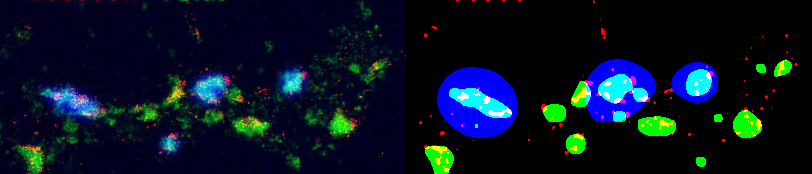
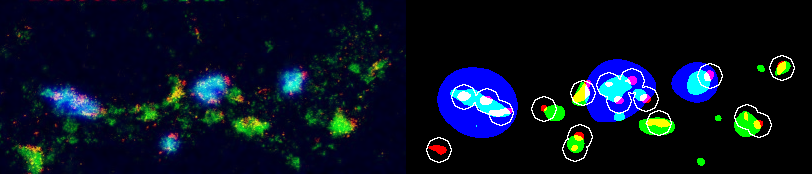
Update description based on new results

diff --git a/README.md b/README.md
@@ -9,6 +9,11 @@ FIJI Macro for counting Munc spots on Bassoon blobs.
 
 ![Interface](doc/Munc_on_Bassoon_Interface.JPG)
 
+1. The minimal diameters are used to average out noise, the maximal diameter is used to subtract the background. All of these diameters are measured in pixels.
+2. All Munc spots that are closer than a specified maximal distance (in pixels) are part of the same cluster. The distance can be measured between the borders of the segmented Munc spots, their centroids or their skeletons. 
+3. It is recommended check the literature and convert these values to pixels depending on the scaling of the images. For instance, [Sakamoto et al., 2018](https://www.nature.com/articles/s41593-017-0042-8) reported 44.9 ± 12.0 nm for Munc spot diameter (1.) and 84.7 ± 22.7 nm for their distance within clusters (2.).
+4. It is recommended to first use the Auto threshold feature and check the used thresholds (see note on results below). Then calculate the average threshold for each channel over all images and explore different thresholds close to that average value until the segmentations looks fine.
+
 ## Note on data
 
 This script will process any image found in the specified input folder.
@@ -17,7 +22,7 @@ This script will process any image found in the specified input folder.
 
 For each input file  this script produces three output files, which will be written to the specified output folder. For example, the results for an image named `example_data.tif` will be found in:
 
-1. `example_data.tif.bassoon.csv` contains comma delimitted values for `Basson_id`, `Basson_area`, `Marker_overlap`, `Munc_count` and `Munc_density`. The `Bassoon_id=0` referes to the background.
+1. `example_data.tif.bassoon.csv` contains comma delimited values for `Bassoon_id`, `Bassoon_area`, `Marker_overlap`, `Munc_count` and `Munc_density`. The `Bassoon_id=0` refers to the background.
 
 | Bassoon_id | Bassoon_area | Marker_overlap | Munc_count | Munc_density |
 |------------|--------------|----------------|------------|--------------|
@@ -29,25 +34,35 @@ For each input file  this script produces three output files, which will be writ
 | ..         | ..           | ..             | ..         | ..           |
 | 14         | 88           | 0              | 0          | 0.000        |
 
+2. `example_data.tif.munc.csv` contains comma delimited values for `Munc_id`, `Munc_area`, `Munc_x`, `Munc_y`, `Munc_mean`, `Bassoon_id`, and `Cluster_id`.
 
-2. `example_data.tif.munc.csv` contains comma delimitted values for `Munc_id`, `Munc_area`, `Munc_mean`, and `Bassoon_id`.
+|Munc_id|Munc_area|Munc_x |Munc_y |Munc_mean|Bassoon_id|Cluster_id|
+|-------|---------|-------|-------|---------|----------|----------|
+|1      |95       |375.247|67.405 |85.326   |1         |1         |
+|2      |87       |303.017|75.753 |90.897   |3         |2         |
+|3      |76       |225.934|80.434 |108.434  |4         |3         |
+|4      |237      |176.614|92.673 |122.186  |5         |0         |
+|5      |31       |202.952|84.242 |93.613   |4         |3         |
+|..     |..       |..     |..     |..       |..        |..        |
+|17     |33       |168.591|148.015|87.242   |14        |9         |
 
-| Munc_id | Munc_area | Munc_mean | Bassoon_id |
-|---------|-----------|-----------|------------|
-| 1       | 13        | 77.385    | 0          |
-| 2       | 24        | 97.917    | 0          |
-| 3       | 10        | 83.000    | 0          |
-| 4       | 5         | 84.400    | 0          |
-| 5       | 5         | 83.600    | 0          |
-| ..      | ..        | ..        | ..         |
-| 71      | 24        | 95.000    | 0          |
+3. `example_data.tif.cluster.csv` contains comma delimited values for `Cluster_id`, `Marker_overlap`, `Munc_count`. The `Cluster_id=0` refers to the background.
 
+|Cluster_id|Marker_overlap|Munc_count|
+|----------|--------------|----------|
+|0         |0             |2         |
+|1         |0             |1         |
+|2         |1             |1         |
+|3         |1             |4         |
+|4         |1             |0         |
+|..        |..            |..        |
+|10        |0             |1         |
 
-3. `example_data.tif.segmented.png` contains all segmented Munc spots, Bassoon blobs and segmented pre-synapses based on the marker channel.
+4. `example_data.tif.segmented.png` contains all segmented Munc spots, Bassoon blobs and segmented pre-synapses based on the marker channel. Additional white outlines indicate the Munc clusters.  
 
-4. `example_data.tif.compare.png` shows the input image side by side with the segmented images.
+5. `example_data.tif.compare.png` shows the input image side by side with the segmented images.
 
-4. `example_data.tif.parameters.yaml` contains all parameters used for the segmentation of the image which were provided by the user dialog. Note, that it contains the used `threshold` values as well as the method used for `thresholding` (`Auto` or `Fixed`).
+6. `example_data.tif.parameters.yaml` contains all parameters used for the segmentation of the image which were provided by the user dialog. Note, that it contains the used `threshold` values as well as the method used for `thresholding` (`Auto` or `Fixed`). Furthermore it contains the  `cluster_distance` as well as the method of measuring the `distance_between` the Munc spots for  clustering.
 
 ```yaml
 channels:
@@ -55,23 +70,23 @@ channels:
    green: Bassoon
    blue: Marker
 Munc:
-   threshold: 34
+   threshold: 22
    thresholding: Auto
-   min_diameter: 2
-   max_diameter: 6
-   inside_choice: half inside
+   min_diameter: 6
+   max_diameter: 12
+   cluster_distance: 24
+   distance_between: Centroids
 Bassoon:
    threshold: 35
    thresholding: Auto
    min_diameter: 10
    max_diameter: 25
-   dilations: 1
+   dilations: 0
 Marker:
    threshold: 10
    thresholding: Auto
    min_diameter: 50
    max_diameter: 150
-   min_overlap: 1
 ```
 
 
